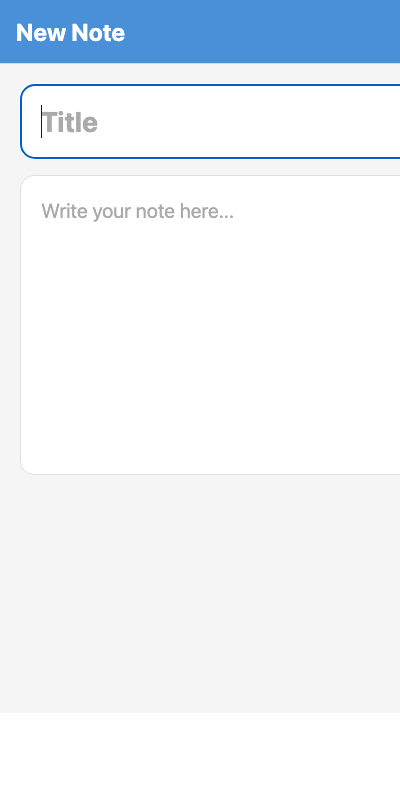
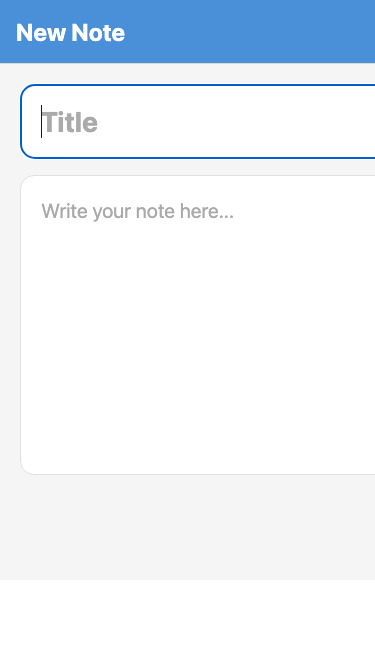
📸 Fix screenshot sizing in README

Changed region(s): [[0.0, 0.03, 1.0, 0.2699], [0.1173, 0.2999, 0.5867, 0.3298]]

diff --git a/README.md b/README.md
@@ -22,10 +22,10 @@ A simple, accessible note-taking app designed for elderly users.
 ## Screenshots & Test Results
 
 ### Notes List
-![Notes List](docs/screenshots/notes-list.png)
+<img src="docs/screenshots/notes-list.png" width="300" alt="Notes List" />
 
 ### Create/Edit Note
-![New Note](docs/screenshots/create-note.png)
+<img src="docs/screenshots/create-note.png" width="300" alt="Create Note" />
 
 ### Test Results
 
